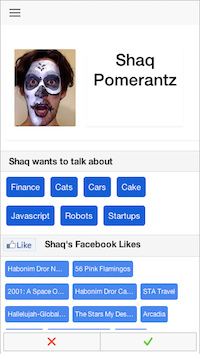
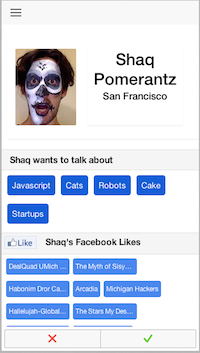
Updated demo photos

diff --git a/app/templates/login.html b/app/templates/login.html
@@ -19,16 +19,26 @@
 				  </ion-slide>
 				  <ion-slide>
 				    <div class="demoblurb">
-				    	<h4>Pick an interesting lunch buddy.</h4>
+				    	<h4>Pick an interesting lunch buddy</h4>
+				    	<h4>Browse through profiles with similar interests to yourself</h4>
 				    </div>
 				   	<br>
 				    <div class="demoimg">
 				    	<img src="images/demo/browse.png">
 				    </div>
 				  </ion-slide>
+				  	<ion-slide>
+					    <div class="demoblurb">
+					    	<h4>View your match!</h4>
+					    </div>
+					    <br>
+					    <div class="demoimg">
+					    	<img src="images/demo/match.png">
+					    </div>
+				  </ion-slide>
 				  <ion-slide>
 				    <div class="demoblurb">
-				    	<h4>Start a conversation, and organise lunch!</h4>
+				    	<h4>Start a conversation, and organize lunch!</h4>
 				    </div>
 				    <br>
 				    <div class="demoimg">
